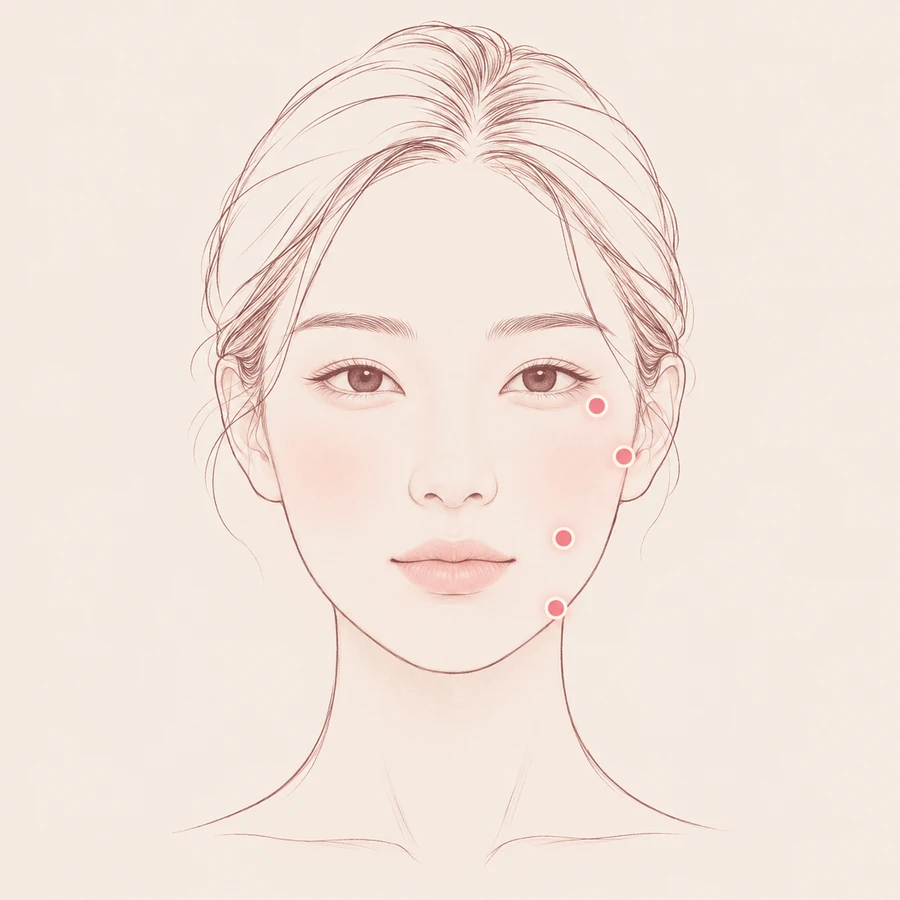
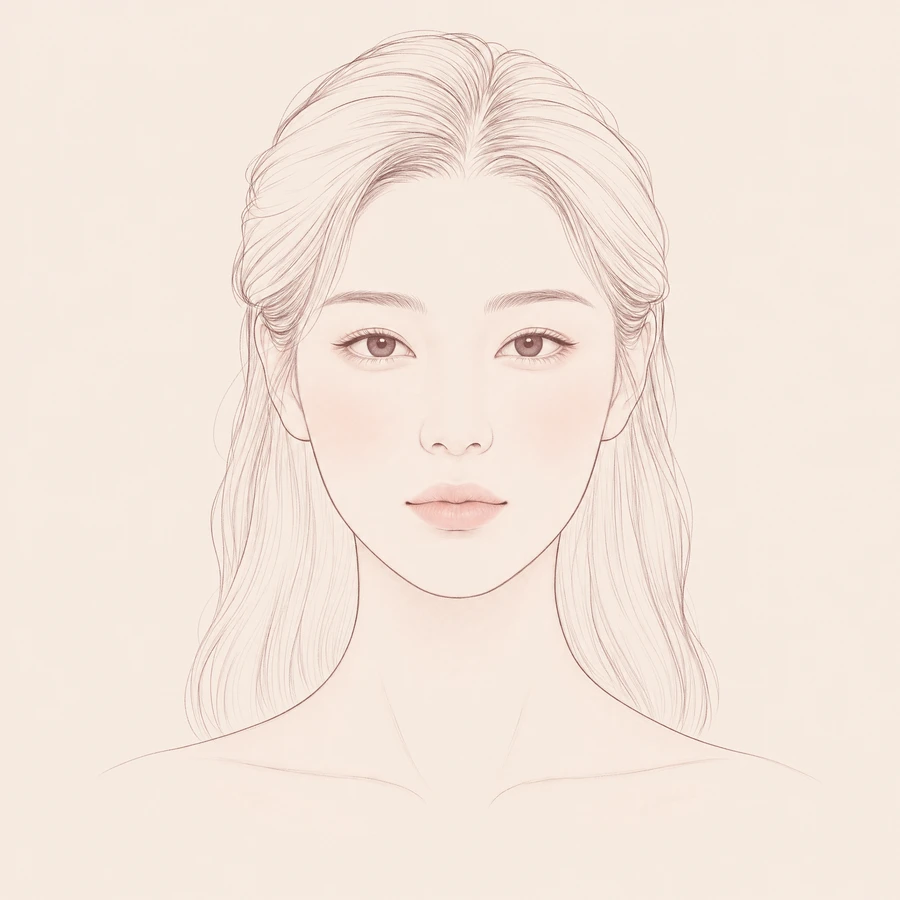
events-2026-12: LIG12 #1 유지인대 부위 7곳·#6 해부 그림

diff --git a/events-2026-12/ligament12/copy-data.js b/events-2026-12/ligament12/copy-data.js
@@ -1,2 +1,2 @@
 /* generated by v4/ligament12/build-ligament12.cjs, do not edit by hand */
-window.PAGE_COPY = {"id":"LIG12","locales":{"KO":{"lg_period":"12.01 – 02.28","lg_vat":"VAT 10% 별도","lg_contact":"예약 및 문의 02-336-7511","lg_hook":"얼굴을 받치는 유지인대 자리에 필러나 스컬트라·래디어스를 넣는 주사 리프팅이에요.","lg_hero_tag":"이벤트가","lg_alt_hero":"블러시 샌드 배경 앞에서 아이보리 오프숄더 니트를 입고 고개를 왼쪽으로 돌린 모델","lg_p_mark":"Price","lg_p3_lead":"패키지는 필러와 스컬트라에 LDM을 더한 구성이에요.","lg_g16_unit":"소프웨이브 숫자는 펄스예요.","lg_dev1_n":"소프웨이브","lg_dev2_n":"LDM","lg_alt_dev_sofwave":"소프웨이브 장비","lg_alt_dev_ldm":"LDM 장비","lg_ba_eyebrow":"Before & After","lg_ba_before":"BEFORE","lg_ba_after":"AFTER","lg_ba_arrow":"›","lg_ba_note":"실제 시술 효과를 참고한 AI 생성 이미지","lg_alt_ba_before":"유지인대 페이스 리프팅 시술 전 (AI 생성 이미지)","lg_alt_ba_after":"유지인대 페이스 리프팅 시술 후 (AI 생성 이미지)","lg_c4_kicker":"What is Ligament Lift","lg_c4_q":"유지인대 리프팅, 어떤 시술이에요?","lg_c4_a":"유지인대는 뼈에서 피부까지 이어지는 단단한 섬유 조직이에요. 이 자리를 짚어 필러나 스컬트라·래디어스를 주사로 넣어요.","lg_c4_m1":"눈둘레","lg_c4_m2":"광대","lg_c4_m3":"교근","lg_c4_m4":"마리오네트","lg_c4_who":"이런 고민에 많이 찾아요","lg_c4_l1_t":"눈둘레 유지인대","lg_c4_l1_d":"눈물고랑 · 다크서클","lg_c4_l2_t":"광대 유지인대","lg_c4_l2_d":"앞볼 꺼짐 · 팔자주름","lg_c4_l3_t":"교근 유지인대","lg_c4_l3_d":"옆볼 · 턱선 라인","lg_c4_l4_t":"마리오네트 인대","lg_c4_l4_d":"입꼬리 · 입가 주름","lg_c4_mat":"넣는 재료","lg_c4_x1_k":"Volume Up","lg_c4_x1_t":"HA 필러","lg_c4_x1_d":"젤 형태의 히알루론산 필러예요. 국산과 수입 중에서 골라요.","lg_c4_x2_k":"Regen","lg_c4_x2_t":"스컬트라 · 래디어스","lg_c4_x2_d":"스컬트라는 PLLA, 래디어스는 CaHA 성분이에요.","lg_c4_x3_k":"Package","lg_c4_x3_t":"필러 + 스컬트라","lg_c4_x3_d":"두 가지를 함께 넣고 LDM을 더해요.","lg_c4_src":"그림은 이해를 돕는 예시예요 · 출처: 뷰티블라썸 홈페이지 시술 안내","lg_alt_c4":"정면 얼굴 선화에 유지인대 네 곳을 분홍 점으로 표시한 그림","lg_c5_kicker":"How it goes","lg_c5_q":"시술 당일은 이렇게 진행돼요","lg_c5_a":"상담에서 넣을 자리와 재료, 양을 정한 뒤 시작해요.","lg_c5_s1_t":"상담·진단","lg_c5_s1_d":"얼굴 구조와 처진 정도를 보고 넣을 자리와 양을 정해요.","lg_c5_s2_t":"마취 준비","lg_c5_s2_d":"재료와 부위에 맞춰 마취를 준비해요.","lg_c5_s3_t":"주사로 넣기","lg_c5_s3_d":"절개 없이, 정한 유지인대 자리에 주사로 넣어요.","lg_c5_s4_t":"LDM·관리 안내","lg_c5_s4_d":"패키지는 LDM까지 받고, 집에서 할 관리를 알려 드려요.","lg_c5_i1_k":"방식","lg_c5_i1_v":"비절개 주사","lg_c5_i1_n":"필러·스컬트라·래디어스","lg_c5_i2_k":"마취","lg_c5_i2_v":"연고·국소 마취","lg_c5_i2_n":"스컬트라·래디어스 기준이에요","lg_c5_i3_k":"일상 복귀","lg_c5_i3_v":"바로 일상으로","lg_c5_i3_n":"멍·붓기가 생길 수 있어요","lg_c5_time":"시술 시간은 재료와 양, 함께 받는 구성에 따라 달라요. 상담 때 알려 드려요.","lg_c5_care1":"시술 부위는 세게 누르거나 문지르지 마세요.","lg_c5_care2":"스컬트라를 넣었다면 5일 동안 하루 5번, 5분씩 마사지해 주세요.","lg_c5_care3":"평소와 다른 증상이 생기면 바로 병원에 알려 주세요.","lg_c5_src":"출처: 뷰티블라썸 홈페이지 시술 안내(유지인대 리프팅·필러·스컬트라·LDM)","lg_alt_c5":"정면을 보며 환하게 웃는 모델 얼굴 클로즈업","lg_ab_kicker":"ABOUT BEAUTY BLOSSOM","lg_ab_title":"당신의 하루를 빛나게, 뷰티블라썸","lg_ab_intro1":"고객 한 분 한 분의 개성을 존중하는 맞춤 진료,","lg_ab_intro2":"모든 과정을 투명하게 안내해 드려요.","lg_ab_dr_name":"이건호 대표원장","lg_ab_dr_quote":"자연스러운 아름다움을 위해 늘 함께하겠습니다.","lg_ab_ph1":"RECEPTION","lg_ab_ph2":"CARE ROOM","lg_ab_ph3":"TREATMENT ROOM","lg_ab_s1_t":"정품·정량","lg_ab_s1_d":"정품 약물과 장비, 정량을 지켜요","lg_ab_s2_t":"개인별 맞춤상담","lg_ab_s2_d":"피부 상태와 원하는 목표를 보고 계획을 세워요","lg_ab_s3_t":"저녁·주말 진료","lg_ab_s3_d":"평일 저녁 8시까지, 점심시간 없이 진료해요","lg_ab_s4_t":"외국어 통역","lg_ab_s4_d":"영어·중국어·일본어·태국어 통역이 상주해요","lg_ab_loc":"LOCATION","lg_ab_loc_title":"찾아오시는 길","lg_ab_way_station":"합정역 3번 출구","lg_ab_way_line":"2·6호선","lg_ab_way_addr":"서울 마포구 양화로 66 메디원메디컬센터 6·8층","lg_ab_way_desk":"6층 접수","lg_ab_hours_kicker":"OPENING HOURS","lg_ab_hours_lbl":"진료시간","lg_ab_h1":"평일 10:00–20:00","lg_ab_h2":"주말·대체공휴일 10:00–16:30","lg_ab_h3":"점심시간 없이 진료해요","lg_ab_bk_kicker":"RESERVATION","lg_ab_bk_title":"예약안내","lg_ab_bk_naver":"네이버 예약","lg_ab_bk_kakao":"카카오톡 '뷰티블라썸의원'","lg_ab_phone":"02-336-7511","lg_ab_qr":"네이버 예약 QR","lg_alt_ph1":"아치형 조명 벽 앞 6층 리셉션 데스크","lg_alt_ph2":"커튼으로 나뉜 관리실 베드","lg_alt_ph3":"시술 체어와 파티션이 있는 6층 시술실","lg_alt_director":"팔짱을 낀 이건호 대표원장","lg_alt_map":"합정역 3번 출구 근처 뷰티블라썸의원 위치를 표시한 지도","lg_alt_qr":"네이버 예약으로 연결되는 QR 코드","lg_note_title":"확인해 주세요","lg_cond1":"표시 금액은 모두 VAT 10% 별도예요.","lg_cond2":"재료와 양, 넣을 자리는 상담에서 정해요. 반응과 회복은 개인에 따라 달라요.","lg_cond3":"시술 후 출혈·멍·붓기 등이 생길 수 있어요.","lg_cond4":"모델 사진과 얼굴 그림은 연출된 이미지예요.","lg_cond5":"전후 사진은 실제 시술 효과를 참고한 AI 생성 이미지예요.","lg_cond6":"","lg_uibeop":"의료법상 최대 49% 할인","lg_r8_badge":"BEST","lg_r9_badge":"HIT","lg_r11_badge":"BEST","lg_r13_badge":"BEST","lg_r15_badge":"HIT","lg_r17_badge":"BEST","lg_p_title":"코어 기둥 리프팅, 페이스 컨투어링","lg_p_en":"Ligament Lift","lg_title_en":"Ligament Lift","lg_g6_tag":"Volume Up","lg_g6_name":"코어 기둥 필러 리프팅","lg_g6_sub":"유지인대 필러 리프트","lg_g6_en":"Ligament Lift","lg_r6_opt":"4CC (국산)","lg_r6_list":"162만원","lg_r6_sale":"89만원","lg_r7_opt":"4CC (수입)","lg_r7_list":"271만원","lg_r7_sale":"149만원","lg_r8_opt":"6CC (국산)","lg_r8_list":"235만원","lg_r8_sale":"129만원","lg_r9_opt":"6CC (수입)","lg_r9_list":"398만원","lg_r9_sale":"219만원","lg_g10_tag":"Regen","lg_g10_name":"코어 기둥 콜라겐 리프팅","lg_g10_en":"Ligament Lift","lg_r10_opt":"스컬트라 or 래디어스 1V","lg_r10_list":"180만원","lg_r10_sale":"99만원","lg_r11_opt":"스컬트라 or 래디어스 2V","lg_r11_list":"325만원","lg_r11_sale":"179만원","lg_g12_tag":"Package","lg_g12_name":"코어 기둥 다중 리프팅 패키지","lg_g12_en":"Ligament Lift","lg_r12_opt":"코어기둥 리프팅 필러 4cc + 스컬트라 1V + LDM","lg_r12_list":"325만원","lg_r12_sale":"179만원","lg_r13_opt":"코어기둥 리프팅 필러 4cc + 스컬트라 1V + LDM","lg_r13_tier":"프리미엄","lg_r13_filler":"필러 : 레스틸렌리프트","lg_r13_list":"435만원","lg_r13_sale":"239만원","lg_r14_opt":"코어기둥 리프팅 필러 6cc + 스컬트라 2V + LDM","lg_r14_list":"522만원","lg_r14_sale":"287만원","lg_r15_opt":"코어기둥 리프팅 필러 6cc + 스컬트라 2V + LDM","lg_r15_tier":"프리미엄","lg_r15_filler":"필러 : 레스틸렌리프트","lg_r15_list":"685만원","lg_r15_sale":"377만원","lg_g16_tag":"The Masterpiece","lg_g16_name":"소프웨이브 x 코어 기둥(유지인대) 하이브리드","lg_g16_en":"Ligament Lift","lg_r17_name":"트리플 딥 리프팅","lg_r17_layers":"피부층 + 유지인대 + 근육","lg_r17_parts":"소프웨이브 200 + 코어기둥 리프팅(필러 4cc + 스컬트라 1V) + 승모근 보톡스 + 목빗근 보톡스 + 네페르티티 리프팅 보톡스 + LDM + LED","lg_r17_list":"725만원","lg_r17_sale":"399만원","lg_title":"유지인대 페이스 리프팅","lg_band_en":"Volume Up · Regen · Package","lg_hero_label":"코어 기둥 필러 리프팅","lg_hero_opt":"4CC (국산)","lg_hero_price":"89만원","lg_ba_title":"유지인대 페이스 리프팅"}},"links":{"booking":"https://m.booking.naver.com/booking/13/bizes/1323382?theme=place&service-target=map-pc&lang=ko&area=plt&map-search=1","kakao":"https://pf.kakao.com/_yrHCn/friend","phone":"tel:02-336-7511"},"channels":{"KO":{"booking":"https://m.booking.naver.com/booking/13/bizes/1323382?theme=place&service-target=map-pc&lang=ko&area=plt&map-search=1","kakao":"https://pf.kakao.com/_yrHCn/friend","phone":"tel:02-336-7511","qr":"assets/naver-booking-qr.png"}},"gmap":{"KO":{"desk":"assets/gmap/gmap-oligio12-desk-KO.webp","tab":"assets/gmap/gmap-oligio12-tab-KO.webp","mob":"assets/gmap/gmap-oligio12-mob-KO.webp"}},"prices":{"tab":"15_ligament","range":["B5:K17"],"rows":[{"row":"15_ligament:6","card":2,"list":"162만원","sale":"89만원"},{"row":"15_ligament:7","card":2,"list":"271만원","sale":"149만원"},{"row":"15_ligament:8","card":2,"list":"235만원","sale":"129만원"},{"row":"15_ligament:9","card":2,"list":"398만원","sale":"219만원"},{"row":"15_ligament:10","card":2,"list":"180만원","sale":"99만원"},{"row":"15_ligament:11","card":2,"list":"325만원","sale":"179만원"},{"row":"15_ligament:12","card":3,"list":"325만원","sale":"179만원"},{"row":"15_ligament:13","card":3,"list":"435만원","sale":"239만원"},{"row":"15_ligament:14","card":3,"list":"522만원","sale":"287만원"},{"row":"15_ligament:15","card":3,"list":"685만원","sale":"377만원"},{"row":"15_ligament:17","card":3,"list":"725만원","sale":"399만원"}]},"cards":7};
+window.PAGE_COPY = {"id":"LIG12","locales":{"KO":{"lg_period":"12.01 – 02.28","lg_vat":"VAT 10% 별도","lg_contact":"예약 및 문의 02-336-7511","lg_hook":"얼굴을 받치는 유지인대 자리에 필러나 스컬트라·래디어스를 넣는 주사 리프팅이에요.","lg_hero_tag":"이벤트가","lg_alt_hero":"블러시 샌드 배경 앞에서 아이보리 오프숄더 니트를 입고 고개를 왼쪽으로 돌린 모델","lg_p_mark":"Price","lg_p3_lead":"패키지는 필러와 스컬트라에 LDM을 더한 구성이에요.","lg_g16_unit":"소프웨이브 숫자는 펄스예요.","lg_dev1_n":"소프웨이브","lg_dev2_n":"LDM","lg_alt_dev_sofwave":"소프웨이브 장비","lg_alt_dev_ldm":"LDM 장비","lg_ba_eyebrow":"Before & After","lg_ba_before":"BEFORE","lg_ba_after":"AFTER","lg_ba_arrow":"›","lg_ba_note":"실제 시술 효과를 참고한 AI 생성 이미지","lg_alt_ba_before":"유지인대 페이스 리프팅 시술 전 (AI 생성 이미지)","lg_alt_ba_after":"유지인대 페이스 리프팅 시술 후 (AI 생성 이미지)","lg_c4_kicker":"What is Ligament Lift","lg_c4_q":"유지인대 리프팅, 어떤 시술이에요?","lg_c4_a":"유지인대는 뼈에서 피부까지 이어지는 단단한 섬유 조직이에요. 이 자리를 짚어 필러나 스컬트라·래디어스를 주사로 넣어요.","lg_c4_m1":"눈둘레","lg_c4_m2":"광대","lg_c4_m3":"눈썹 가장자리","lg_c4_m4":"관자","lg_c4_m5":"인디언밴드","lg_c4_m6":"팔자","lg_c4_m7":"옆볼","lg_c4_who":"이런 고민에 많이 찾아요","lg_c4_l1_t":"눈둘레 유지인대","lg_c4_l1_d":"눈물고랑 · 다크서클","lg_c4_l2_t":"광대 유지인대","lg_c4_l2_d":"앞볼 꺼짐 · 팔자주름","lg_c4_l3_t":"눈썹 가장자리","lg_c4_l3_d":"눈썹 꼬리 · 눈꺼풀 처짐","lg_c4_l4_t":"관자","lg_c4_l4_d":"꺼진 관자 · 옆이마 라인","lg_c4_l5_t":"인디언밴드","lg_c4_l5_d":"볼 사선 그늘 · 중안부 꺼짐","lg_c4_l6_t":"팔자","lg_c4_l6_d":"팔자주름 · 입가 그늘","lg_c4_l7_t":"옆볼","lg_c4_l7_d":"옆볼 꺼짐 · 턱선 라인","lg_c4_mat":"넣는 재료","lg_c4_x1_k":"Volume Up","lg_c4_x1_t":"HA 필러","lg_c4_x1_d":"젤 형태의 히알루론산 필러예요. 국산과 수입 중에서 골라요.","lg_c4_x2_k":"Regen","lg_c4_x2_t":"스컬트라 · 래디어스","lg_c4_x2_d":"스컬트라는 PLLA, 래디어스는 CaHA 성분이에요.","lg_c4_x3_k":"Package","lg_c4_x3_t":"필러 + 스컬트라","lg_c4_x3_d":"두 가지를 함께 넣고 LDM을 더해요.","lg_c4_src":"그림은 이해를 돕는 예시예요 · 출처: 뷰티블라썸 홈페이지 시술 안내","lg_alt_c4":"정면 얼굴 선화 (유지인대 일곱 곳은 점과 이름표로 표시)","lg_c5_kicker":"How it goes","lg_c5_q":"시술 당일은 이렇게 진행돼요","lg_c5_a":"상담에서 넣을 자리와 재료, 양을 정한 뒤 시작해요.","lg_c5_s1_t":"상담·진단","lg_c5_s1_d":"얼굴 구조와 처진 정도를 보고 넣을 자리와 양을 정해요.","lg_c5_s2_t":"마취 준비","lg_c5_s2_d":"재료와 부위에 맞춰 마취를 준비해요.","lg_c5_s3_t":"주사로 넣기","lg_c5_s3_d":"절개 없이, 정한 유지인대 자리에 주사로 넣어요.","lg_c5_s4_t":"LDM·관리 안내","lg_c5_s4_d":"패키지는 LDM까지 받고, 집에서 할 관리를 알려 드려요.","lg_c5_i1_k":"방식","lg_c5_i1_v":"비절개 주사","lg_c5_i1_n":"필러·스컬트라·래디어스","lg_c5_i2_k":"마취","lg_c5_i2_v":"연고·국소 마취","lg_c5_i2_n":"스컬트라·래디어스 기준이에요","lg_c5_i3_k":"일상 복귀","lg_c5_i3_v":"바로 일상으로","lg_c5_i3_n":"멍·붓기가 생길 수 있어요","lg_c5_time":"시술 시간은 재료와 양, 함께 받는 구성에 따라 달라요. 상담 때 알려 드려요.","lg_c5_care1":"시술 부위는 세게 누르거나 문지르지 마세요.","lg_c5_care2":"스컬트라를 넣었다면 5일 동안 하루 5번, 5분씩 마사지해 주세요.","lg_c5_care3":"평소와 다른 증상이 생기면 바로 병원에 알려 주세요.","lg_c5_src":"출처: 뷰티블라썸 홈페이지 시술 안내(유지인대 리프팅·필러·스컬트라·LDM)","lg_alt_c5":"정면을 보며 환하게 웃는 모델 얼굴 클로즈업","lg_ab_kicker":"ABOUT BEAUTY BLOSSOM","lg_ab_title":"당신의 하루를 빛나게, 뷰티블라썸","lg_ab_intro1":"고객 한 분 한 분의 개성을 존중하는 맞춤 진료,","lg_ab_intro2":"모든 과정을 투명하게 안내해 드려요.","lg_ab_dr_name":"이건호 대표원장","lg_ab_dr_quote":"자연스러운 아름다움을 위해 늘 함께하겠습니다.","lg_ab_ph1":"RECEPTION","lg_ab_ph2":"CARE ROOM","lg_ab_ph3":"TREATMENT ROOM","lg_ab_s1_t":"정품·정량","lg_ab_s1_d":"정품 약물과 장비, 정량을 지켜요","lg_ab_s2_t":"개인별 맞춤상담","lg_ab_s2_d":"피부 상태와 원하는 목표를 보고 계획을 세워요","lg_ab_s3_t":"저녁·주말 진료","lg_ab_s3_d":"평일 저녁 8시까지, 점심시간 없이 진료해요","lg_ab_s4_t":"외국어 통역","lg_ab_s4_d":"영어·중국어·일본어·태국어 통역이 상주해요","lg_ab_loc":"LOCATION","lg_ab_loc_title":"찾아오시는 길","lg_ab_way_station":"합정역 3번 출구","lg_ab_way_line":"2·6호선","lg_ab_way_addr":"서울 마포구 양화로 66 메디원메디컬센터 6·8층","lg_ab_way_desk":"6층 접수","lg_ab_hours_kicker":"OPENING HOURS","lg_ab_hours_lbl":"진료시간","lg_ab_h1":"평일 10:00–20:00","lg_ab_h2":"주말·대체공휴일 10:00–16:30","lg_ab_h3":"점심시간 없이 진료해요","lg_ab_bk_kicker":"RESERVATION","lg_ab_bk_title":"예약안내","lg_ab_bk_naver":"네이버 예약","lg_ab_bk_kakao":"카카오톡 '뷰티블라썸의원'","lg_ab_phone":"02-336-7511","lg_ab_qr":"네이버 예약 QR","lg_alt_ph1":"아치형 조명 벽 앞 6층 리셉션 데스크","lg_alt_ph2":"커튼으로 나뉜 관리실 베드","lg_alt_ph3":"시술 체어와 파티션이 있는 6층 시술실","lg_alt_director":"팔짱을 낀 이건호 대표원장","lg_alt_map":"합정역 3번 출구 근처 뷰티블라썸의원 위치를 표시한 지도","lg_alt_qr":"네이버 예약으로 연결되는 QR 코드","lg_note_title":"확인해 주세요","lg_cond1":"표시 금액은 모두 VAT 10% 별도예요.","lg_cond2":"재료와 양, 넣을 자리는 상담에서 정해요. 반응과 회복은 개인에 따라 달라요.","lg_cond3":"시술 후 출혈·멍·붓기 등이 생길 수 있어요.","lg_cond4":"모델 사진과 얼굴 그림은 연출된 이미지예요.","lg_cond5":"전후 사진은 실제 시술 효과를 참고한 AI 생성 이미지예요.","lg_cond6":"","lg_uibeop":"의료법상 최대 49% 할인","lg_r8_badge":"BEST","lg_r9_badge":"HIT","lg_r11_badge":"BEST","lg_r13_badge":"BEST","lg_r15_badge":"HIT","lg_r17_badge":"BEST","lg_p_fig":"유지인대 (retaining ligament)","lg_alt_p_fig":"얼굴 근육 위로 유지인대를 금빛 띠로 그린 3/4 측면 해부 그림","lg_p_title":"코어 기둥 리프팅, 페이스 컨투어링","lg_p_en":"Ligament Lift","lg_title_en":"Ligament Lift","lg_g6_tag":"Volume Up","lg_g6_name":"코어 기둥 필러 리프팅","lg_g6_sub":"유지인대 필러 리프트","lg_g6_en":"Ligament Lift","lg_r6_opt":"4CC (국산)","lg_r6_list":"162만원","lg_r6_sale":"89만원","lg_r7_opt":"4CC (수입)","lg_r7_list":"271만원","lg_r7_sale":"149만원","lg_r8_opt":"6CC (국산)","lg_r8_list":"235만원","lg_r8_sale":"129만원","lg_r9_opt":"6CC (수입)","lg_r9_list":"398만원","lg_r9_sale":"219만원","lg_g10_tag":"Regen","lg_g10_name":"코어 기둥 콜라겐 리프팅","lg_g10_en":"Ligament Lift","lg_r10_opt":"스컬트라 or 래디어스 1V","lg_r10_list":"180만원","lg_r10_sale":"99만원","lg_r11_opt":"스컬트라 or 래디어스 2V","lg_r11_list":"325만원","lg_r11_sale":"179만원","lg_g12_tag":"Package","lg_g12_name":"코어 기둥 다중 리프팅 패키지","lg_g12_en":"Ligament Lift","lg_r12_opt":"코어기둥 리프팅 필러 4cc + 스컬트라 1V + LDM","lg_r12_list":"325만원","lg_r12_sale":"179만원","lg_r13_opt":"코어기둥 리프팅 필러 4cc + 스컬트라 1V + LDM","lg_r13_tier":"프리미엄","lg_r13_filler":"필러 : 레스틸렌리프트","lg_r13_list":"435만원","lg_r13_sale":"239만원","lg_r14_opt":"코어기둥 리프팅 필러 6cc + 스컬트라 2V + LDM","lg_r14_list":"522만원","lg_r14_sale":"287만원","lg_r15_opt":"코어기둥 리프팅 필러 6cc + 스컬트라 2V + LDM","lg_r15_tier":"프리미엄","lg_r15_filler":"필러 : 레스틸렌리프트","lg_r15_list":"685만원","lg_r15_sale":"377만원","lg_g16_tag":"The Masterpiece","lg_g16_name":"소프웨이브 x 코어 기둥(유지인대) 하이브리드","lg_g16_en":"Ligament Lift","lg_r17_name":"트리플 딥 리프팅","lg_r17_layers":"피부층 + 유지인대 + 근육","lg_r17_parts":"소프웨이브 200 + 코어기둥 리프팅(필러 4cc + 스컬트라 1V) + 승모근 보톡스 + 목빗근 보톡스 + 네페르티티 리프팅 보톡스 + LDM + LED","lg_r17_list":"725만원","lg_r17_sale":"399만원","lg_title":"유지인대 페이스 리프팅","lg_band_en":"Volume Up · Regen · Package","lg_hero_label":"코어 기둥 필러 리프팅","lg_hero_opt":"4CC (국산)","lg_hero_price":"89만원","lg_ba_title":"유지인대 페이스 리프팅"}},"links":{"booking":"https://m.booking.naver.com/booking/13/bizes/1323382?theme=place&service-target=map-pc&lang=ko&area=plt&map-search=1","kakao":"https://pf.kakao.com/_yrHCn/friend","phone":"tel:02-336-7511"},"channels":{"KO":{"booking":"https://m.booking.naver.com/booking/13/bizes/1323382?theme=place&service-target=map-pc&lang=ko&area=plt&map-search=1","kakao":"https://pf.kakao.com/_yrHCn/friend","phone":"tel:02-336-7511","qr":"assets/naver-booking-qr.png"}},"gmap":{"KO":{"desk":"assets/gmap/gmap-oligio12-desk-KO.webp","tab":"assets/gmap/gmap-oligio12-tab-KO.webp","mob":"assets/gmap/gmap-oligio12-mob-KO.webp"}},"prices":{"tab":"15_ligament","range":["B5:K17"],"rows":[{"row":"15_ligament:6","card":2,"list":"162만원","sale":"89만원"},{"row":"15_ligament:7","card":2,"list":"271만원","sale":"149만원"},{"row":"15_ligament:8","card":2,"list":"235만원","sale":"129만원"},{"row":"15_ligament:9","card":2,"list":"398만원","sale":"219만원"},{"row":"15_ligament:10","card":2,"list":"180만원","sale":"99만원"},{"row":"15_ligament:11","card":2,"list":"325만원","sale":"179만원"},{"row":"15_ligament:12","card":3,"list":"325만원","sale":"179만원"},{"row":"15_ligament:13","card":3,"list":"435만원","sale":"239만원"},{"row":"15_ligament:14","card":3,"list":"522만원","sale":"287만원"},{"row":"15_ligament:15","card":3,"list":"685만원","sale":"377만원"},{"row":"15_ligament:17","card":3,"list":"725만원","sale":"399만원"}]},"cards":7};

diff --git a/events-2026-12/ligament12/index.html b/events-2026-12/ligament12/index.html
@@ -9,12 +9,12 @@
   <title>유지인대 · BEAUTY BLOSSOM</title>
   <link rel="stylesheet" href="https://cdn.jsdelivr.net/gh/orioncactus/pretendard@v1.3.9/dist/web/variable/pretendardvariable-dynamic-subset.min.css">
   <link rel="stylesheet" href="https://fonts.googleapis.com/css2?family=Cormorant+Garamond:ital,wght@0,400;0,500;0,600;1,300;1,400;1,500&amp;display=swap">
-  <link rel="stylesheet" href="ligament12.css?v=20261109-ligament12a">
-  <script src="copy-data.js?v=20261109-ligament12a" defer></script>
+  <link rel="stylesheet" href="ligament12.css?v=20261110-ligament12a">
+  <script src="copy-data.js?v=20261110-ligament12a" defer></script>
   <script src="../text-format.js?v=20261109-type1" defer></script>
 <script src="../inline-format.js?v=20261109-type1" defer></script>
 <script src="../inline-edit.js?v=20261109-type1" defer></script>
-  <script src="ligament12.js?v=20261109-ligament12a" defer></script>
+  <script src="ligament12.js?v=20261110-ligament12a" defer></script>
 </head>
 <body>
 <!-- LIG12 유지인대 · 겨울 시즌, 2026-11-04 redesign (reference sheet 11/04: F69 design poster, G69 team model, H69 colour pin).
@@ -162,6 +162,7 @@
           <h2 class="p-title" id="lg-t2"><span class="pt-main" data-copy="lg_p_title"></span><span class="pt-en" data-copy="lg_p_en"></span></h2>
         </div>
         <div class="pboard">
+          <figure class="lig-fig"><p class="lig-fig-t" data-copy="lg_p_fig"></p><img class="lig-fig-img" src="assets/ligament-anatomy.webp?v=a" data-alt="lg_alt_p_fig" alt="" width="660" height="1400"></figure>
           <div class="pgroup">
             <p class="pg-head"><span class="pg-tag" data-copy="lg_g6_tag"></span><span class="pg-name" data-copy="lg_g6_name"></span></p>
             <p class="pg-sub"><span data-copy="lg_g6_sub"></span><span class="pg-en" data-copy="lg_g6_en"></span></p>
@@ -200,6 +201,7 @@
           <h2 class="p-title" id="lg-t2-L"><span class="pt-main" data-copy="lg_p_title"></span><span class="pt-en" data-copy="lg_p_en"></span></h2>
         </div>
         <div class="pboard">
+    <figure class="lig-fig"><p class="lig-fig-t" data-copy="lg_p_fig"></p><img class="lig-fig-img" src="assets/ligament-anatomy.webp?v=a" data-alt="lg_alt_p_fig" alt="" width="660" height="1400"></figure>
           <div class="pgroup">
             <p class="pg-head"><span class="pg-tag" data-copy="lg_g6_tag"></span><span class="pg-name" data-copy="lg_g6_name"></span></p>
             <p class="pg-sub"><span data-copy="lg_g6_sub"></span><span class="pg-en" data-copy="lg_g6_en"></span></p>
@@ -273,6 +275,7 @@
       <img class="bg bg-flip" src="assets/bg-studio.jpg?v=1104a" alt="" aria-hidden="true" width="1080" height="1350">
       <div class="cp-in">
         <header class="top"><img class="brand wordmark" src="assets/logo-wordmark-282828.png" alt="BEAUTY BLOSSOM" width="975" height="111"><span class="period" data-copy="lg_period"></span></header>
+    <figure class="lig-fig"><p class="lig-fig-t" data-copy="lg_p_fig"></p><img class="lig-fig-img" src="assets/ligament-anatomy.webp?v=a" data-alt="lg_alt_p_fig" alt="" width="660" height="1400"></figure>
         <div class="head head-mini">
           <p class="p-title"><span class="pt-main" data-copy="lg_p_title"></span><span class="pt-en" data-copy="lg_p_en"></span></p>
         </div>
@@ -748,11 +751,14 @@
         </div>
         <div class="c4-mid">
           <figure class="face">
-            <img class="face-img" src="assets/diagram-face.webp?v=a" data-alt="lg_alt_c4" alt="" width="900" height="900">
-            <span class="mk mk1"><span data-copy="lg_c4_m1"></span></span>
+            <img class="face-img" src="assets/diagram-face.webp?v=b" data-alt="lg_alt_c4" alt="" width="900" height="900">
+            <span class="mk mk1 mk-l"><span data-copy="lg_c4_m1"></span></span>
             <span class="mk mk2"><span data-copy="lg_c4_m2"></span></span>
             <span class="mk mk3"><span data-copy="lg_c4_m3"></span></span>
-            <span class="mk mk4"><span data-copy="lg_c4_m4"></span></span>
+            <span class="mk mk4 mk-l"><span data-copy="lg_c4_m4"></span></span>
+            <span class="mk mk5 mk-l"><span data-copy="lg_c4_m5"></span></span>
+            <span class="mk mk6 mk-l"><span data-copy="lg_c4_m6"></span></span>
+            <span class="mk mk7"><span data-copy="lg_c4_m7"></span></span>
           </figure>
           <div class="lig">
             <p class="lig-lbl" data-copy="lg_c4_who"></p>
@@ -761,6 +767,9 @@
               <li class="lg-it"><span class="lg-n" aria-hidden="true"></span><div class="lg-tx"><h3 class="lg-t" data-copy="lg_c4_l2_t"></h3><p class="lg-d" data-copy="lg_c4_l2_d"></p></div></li>
               <li class="lg-it"><span class="lg-n" aria-hidden="true"></span><div class="lg-tx"><h3 class="lg-t" data-copy="lg_c4_l3_t"></h3><p class="lg-d" data-copy="lg_c4_l3_d"></p></div></li>
               <li class="lg-it"><span class="lg-n" aria-hidden="true"></span><div class="lg-tx"><h3 class="lg-t" data-copy="lg_c4_l4_t"></h3><p class="lg-d" data-copy="lg_c4_l4_d"></p></div></li>
+              <li class="lg-it"><span class="lg-n" aria-hidden="true"></span><div class="lg-tx"><h3 class="lg-t" data-copy="lg_c4_l5_t"></h3><p class="lg-d" data-copy="lg_c4_l5_d"></p></div></li>
+              <li class="lg-it"><span class="lg-n" aria-hidden="true"></span><div class="lg-tx"><h3 class="lg-t" data-copy="lg_c4_l6_t"></h3><p class="lg-d" data-copy="lg_c4_l6_d"></p></div></li>
+              <li class="lg-it"><span class="lg-n" aria-hidden="true"></span><div class="lg-tx"><h3 class="lg-t" data-copy="lg_c4_l7_t"></h3><p class="lg-d" data-copy="lg_c4_l7_d"></p></div></li>
             </ol>
           </div>
         </div>
@@ -792,11 +801,14 @@
         </div>
         <div class="c4-mid">
           <figure class="face">
-            <img class="face-img" src="assets/diagram-face.webp?v=a" data-alt="lg_alt_c4" alt="" width="900" height="900">
-            <span class="mk mk1"><span data-copy="lg_c4_m1"></span></span>
+            <img class="face-img" src="assets/diagram-face.webp?v=b" data-alt="lg_alt_c4" alt="" width="900" height="900">
+            <span class="mk mk1 mk-l"><span data-copy="lg_c4_m1"></span></span>
             <span class="mk mk2"><span data-copy="lg_c4_m2"></span></span>
             <span class="mk mk3"><span data-copy="lg_c4_m3"></span></span>
-            <span class="mk mk4"><span data-copy="lg_c4_m4"></span></span>
+            <span class="mk mk4 mk-l"><span data-copy="lg_c4_m4"></span></span>
+            <span class="mk mk5 mk-l"><span data-copy="lg_c4_m5"></span></span>
+            <span class="mk mk6 mk-l"><span data-copy="lg_c4_m6"></span></span>
+            <span class="mk mk7"><span data-copy="lg_c4_m7"></span></span>
           </figure>
           <div class="lig">
             <p class="lig-lbl" data-copy="lg_c4_who"></p>
@@ -805,6 +817,9 @@
               <li class="lg-it"><span class="lg-n" aria-hidden="true"></span><div class="lg-tx"><h3 class="lg-t" data-copy="lg_c4_l2_t"></h3><p class="lg-d" data-copy="lg_c4_l2_d"></p></div></li>
               <li class="lg-it"><span class="lg-n" aria-hidden="true"></span><div class="lg-tx"><h3 class="lg-t" data-copy="lg_c4_l3_t"></h3><p class="lg-d" data-copy="lg_c4_l3_d"></p></div></li>
               <li class="lg-it"><span class="lg-n" aria-hidden="true"></span><div class="lg-tx"><h3 class="lg-t" data-copy="lg_c4_l4_t"></h3><p class="lg-d" data-copy="lg_c4_l4_d"></p></div></li>
+    <li class="lg-it"><span class="lg-n" aria-hidden="true"></span><div class="lg-tx"><h3 class="lg-t" data-copy="lg_c4_l5_t"></h3><p class="lg-d" data-copy="lg_c4_l5_d"></p></div></li>
+    <li class="lg-it"><span class="lg-n" aria-hidden="true"></span><div class="lg-tx"><h3 class="lg-t" data-copy="lg_c4_l6_t"></h3><p class="lg-d" data-copy="lg_c4_l6_d"></p></div></li>
+    <li class="lg-it"><span class="lg-n" aria-hidden="true"></span><div class="lg-tx"><h3 class="lg-t" data-copy="lg_c4_l7_t"></h3><p class="lg-d" data-copy="lg_c4_l7_d"></p></div></li>
             </ol>
           </div>
         </div>
@@ -868,24 +883,41 @@
         <header class="top solo"><img class="brand wordmark" src="assets/logo-wordmark-282828.png" alt="BEAUTY BLOSSOM" width="975" height="111"></header>
         <div class="c4-mid">
           <figure class="face">
-            <img class="face-img" src="assets/diagram-face.webp?v=a" data-alt="lg_alt_c4" alt="" width="900" height="900">
-            <span class="mk mk1"><span data-copy="lg_c4_m1"></span></span>
+            <img class="face-img" src="assets/diagram-face.webp?v=b" data-alt="lg_alt_c4" alt="" width="900" height="900">
+            <span class="mk mk1 mk-l"><span data-copy="lg_c4_m1"></span></span>
             <span class="mk mk2"><span data-copy="lg_c4_m2"></span></span>
             <span class="mk mk3"><span data-copy="lg_c4_m3"></span></span>
-            <span class="mk mk4"><span data-copy="lg_c4_m4"></span></span>
+            <span class="mk mk4 mk-l"><span data-copy="lg_c4_m4"></span></span>
+            <span class="mk mk5 mk-l"><span data-copy="lg_c4_m5"></span></span>
+            <span class="mk mk6 mk-l"><span data-copy="lg_c4_m6"></span></span>
+            <span class="mk mk7"><span data-copy="lg_c4_m7"></span></span>
           </figure>
-          <div class="lig">
-            <p class="lig-lbl" data-copy="lg_c4_who"></p>
-            <ol class="lig-list">
-              <li class="lg-it"><span class="lg-n" aria-hidden="true"></span><div class="lg-tx"><h3 class="lg-t" data-copy="lg_c4_l1_t"></h3><p class="lg-d" data-copy="lg_c4_l1_d"></p></div></li>
-              <li class="lg-it"><span class="lg-n" aria-hidden="true"></span><div class="lg-tx"><h3 class="lg-t" data-copy="lg_c4_l2_t"></h3><p class="lg-d" data-copy="lg_c4_l2_d"></p></div></li>
-              <li class="lg-it"><span class="lg-n" aria-hidden="true"></span><div class="lg-tx"><h3 class="lg-t" data-copy="lg_c4_l3_t"></h3><p class="lg-d" data-copy="lg_c4_l3_d"></p></div></li>
-              <li class="lg-it"><span class="lg-n" aria-hidden="true"></span><div class="lg-tx"><h3 class="lg-t" data-copy="lg_c4_l4_t"></h3><p class="lg-d" data-copy="lg_c4_l4_d"></p></div></li>
-            </ol>
-          </div>
         </div>
       </div>
       <div class="band">
+        <p class="band-en" data-copy="lg_band_en"></p>
+        <i class="band-rule" aria-hidden="true"></i>
+        <p class="band-sm src" data-copy="lg_c4_src"></p>
+      </div>
+    </section>
+    <section class="card cx c4 K5 K5c" data-card="5" data-part="3" data-size-only="kakao">
+    <img class="bg" src="assets/bg-studio.jpg?v=1104a" alt="" aria-hidden="true" width="1080" height="1350">
+    <div class="cx-body">
+    <header class="top solo"><img class="brand wordmark" src="assets/logo-wordmark-282828.png" alt="BEAUTY BLOSSOM" width="975" height="111"></header>
+    <div class="lig">
+    <p class="lig-lbl" data-copy="lg_c4_who"></p>
+    <ol class="lig-list">
+    <li class="lg-it"><span class="lg-n" aria-hidden="true"></span><div class="lg-tx"><h3 class="lg-t" data-copy="lg_c4_l1_t"></h3><p class="lg-d" data-copy="lg_c4_l1_d"></p></div></li>
+    <li class="lg-it"><span class="lg-n" aria-hidden="true"></span><div class="lg-tx"><h3 class="lg-t" data-copy="lg_c4_l2_t"></h3><p class="lg-d" data-copy="lg_c4_l2_d"></p></div></li>
+    <li class="lg-it"><span class="lg-n" aria-hidden="true"></span><div class="lg-tx"><h3 class="lg-t" data-copy="lg_c4_l3_t"></h3><p class="lg-d" data-copy="lg_c4_l3_d"></p></div></li>
+    <li class="lg-it"><span class="lg-n" aria-hidden="true"></span><div class="lg-tx"><h3 class="lg-t" data-copy="lg_c4_l4_t"></h3><p class="lg-d" data-copy="lg_c4_l4_d"></p></div></li>
+    <li class="lg-it"><span class="lg-n" aria-hidden="true"></span><div class="lg-tx"><h3 class="lg-t" data-copy="lg_c4_l5_t"></h3><p class="lg-d" data-copy="lg_c4_l5_d"></p></div></li>
+    <li class="lg-it"><span class="lg-n" aria-hidden="true"></span><div class="lg-tx"><h3 class="lg-t" data-copy="lg_c4_l6_t"></h3><p class="lg-d" data-copy="lg_c4_l6_d"></p></div></li>
+    <li class="lg-it"><span class="lg-n" aria-hidden="true"></span><div class="lg-tx"><h3 class="lg-t" data-copy="lg_c4_l7_t"></h3><p class="lg-d" data-copy="lg_c4_l7_d"></p></div></li>
+    </ol>
+    </div>
+    </div>
+    <div class="band">
         <p class="band-en" data-copy="lg_band_en"></p>
         <i class="band-rule" aria-hidden="true"></i>
         <p class="band-sm src" data-copy="lg_c4_src"></p>

diff --git a/events-2026-12/ligament12/ligament12.css b/events-2026-12/ligament12/ligament12.css
@@ -174,10 +174,22 @@ img{max-width:100%}
 .mk{position:absolute;z-index:2;display:inline-flex;align-items:center;gap:.35em;transform:translateY(-50%);padding:.16em .62em .16em .2em;border-radius:999px;background:rgba(251,247,233,.94);
   border:1px solid rgba(138,15,32,.35);font-weight:700;font-size:max(11px,calc(15*var(--px)));line-height:1.2;color:var(--rose-d);white-space:nowrap}
 .mk::before{counter-increment:mk;content:counter(mk);display:inline-grid;place-items:center;width:1.45em;height:1.45em;border-radius:50%;background:var(--rose-d);color:var(--cream-l);font-size:.86em}
-.mk1{left:68.6%;top:45.07%}
-.mk2{left:71.6%;top:50.68%}
-.mk3{left:64.9%;top:59.77%}
-.mk4{left:64.1%;top:67.53%}
+/* 2026-11-10 team comment #1: the lead's face drawing has no dots; each of the seven points is a screen dot (.mk::after) at the spot on the face
+   (left / top = the point, % of the 900 px drawing) with its name tag beside it: on the right of the face the tag reads rightwards, on the left
+   (.mk-l) leftwards, '눈썹 가장자리' (.mk-t) sits above its dot so the long tag stays inside the frame in every size */
+.face .mk{transform:translate(calc(12*var(--px) + 4px),-50%)}
+.face .mk.mk-l{transform:translate(calc(-100% - 12*var(--px) - 4px),-50%)}
+.face .mk.mk-t{transform:translate(-50%,calc(-100% - 10*var(--px) - 4px))}
+.face .mk::after{content:'';position:absolute;top:50%;left:calc(-12*var(--px) - 4px);width:max(8px,calc(12*var(--px)));height:max(8px,calc(12*var(--px)));transform:translate(-50%,-50%);border-radius:50%;background:var(--pink);box-shadow:0 0 0 max(2px,calc(3*var(--px))) rgba(251,247,233,.95),0 1px 3px rgba(138,15,32,.35)}
+.face .mk.mk-l::after{left:auto;right:calc(-12*var(--px) - 4px);transform:translate(50%,-50%)}
+.face .mk.mk-t::after{top:auto;bottom:calc(-10*var(--px) - 4px);left:50%;transform:translate(-50%,50%)}
+.mk1{left:41.3%;top:41.5%}
+.mk2{left:64.6%;top:44.4%}
+.mk3{left:65.2%;top:34.2%}
+.mk4{left:33.6%;top:31.3%}
+.mk5{left:43.5%;top:47.6%}
+.mk6{left:46%;top:54%}
+.mk7{left:64.2%;top:53.6%}
 .lig{min-width:0}
 .lig-lbl{font-family:var(--f-serif);font-style:italic;font-weight:600;font-size:max(14px,calc(26*var(--px)));color:var(--rose-d)}
 .lig-list{list-style:none;padding:0;margin-top:calc(6*var(--px));counter-reset:lg}
@@ -186,6 +198,17 @@ img{max-width:100%}
 .lg-n::before{counter-increment:lg;content:counter(lg);display:grid;place-items:center;width:calc(34*var(--px));height:calc(34*var(--px));min-width:20px;min-height:20px;border-radius:50%;border:1px solid var(--rose-d);
   font-family:var(--f-serif);font-variant-numeric:lining-nums;font-weight:600;font-size:max(12px,calc(20*var(--px)));color:var(--rose-d)}
 .lg-t{font-weight:700;font-size:max(14px,calc(24*var(--px)));line-height:1.3;color:var(--ink)}
+/* seven items now (#1): the same type sizes, less air between them */
+.c4 .lg-it{padding-top:calc(7*var(--px));padding-bottom:calc(7*var(--px))}
+/* 2026-11-10 team comment #6: the lead's retaining-ligament drawing stands on the left of the 2 A price board (240 px x the board's height at 1080),
+   the price rows move right with narrower price columns (the amounts keep their size, option names stay on one line); the picture keeps its own
+   ratio inside the frame (the drawing's cream ground = the frame's cream, so the frame reads as one panel) */
+.pboard:has(> .lig-fig){padding-left:calc(300*var(--px))}
+.pboard:has(> .lig-fig) .prow{grid-template-columns:minmax(0,1fr) calc(96*var(--px)) calc(140*var(--px))}
+.lig-fig{position:absolute;left:calc(32*var(--px));top:calc(16*var(--px));bottom:calc(14*var(--px));width:calc(240*var(--px));margin:0;display:flex;flex-direction:column;border-radius:calc(12*var(--px));overflow:hidden;background:#fdf9ea;border:1px solid rgba(138,15,32,.22)}
+.lig-fig-t{flex:none;padding:.42em .5em .38em;text-align:center;font-weight:800;font-size:max(12px,calc(19*var(--px)));line-height:1.25;letter-spacing:-.01em;color:var(--cream-l);background:var(--rose-d)}
+.lig-fig-img{display:block;flex:1 1 auto;min-height:0;width:100%;height:auto;object-fit:contain;object-position:50% 50%}
+@container (max-width:600px){.pboard:has(> .lig-fig){padding-left:12px}.lig-fig{position:static;width:150px;margin:4px auto 10px}}
 .lg-d{margin-top:calc(4*var(--px));font-size:max(12px,calc(19*var(--px)));font-weight:500;line-height:1.45;color:var(--ink-2)}
 .mat{margin-top:calc(16*var(--px))}
 .mat-title{font-family:var(--f-serif);font-style:italic;font-weight:600;font-size:max(14px,calc(26*var(--px)));color:var(--rose-d)}
@@ -660,16 +683,36 @@ html[data-size="kakao"] .K2a1 .dk2{left:470px;top:120px}
 html[data-size="kakao"] .pkg .pn > .badge{display:inline-flex;width:auto;margin:0 0 0 12px}
 html[data-size="kakao"] .K3a .pboard{margin-top:8px}
 html[data-size="kakao"] .K3a .pgroup{padding:6px 0 4px}
+
+/* 2026-11-10 team comment #1: seven points and seven list items. line 5-1: the list in two columns (1-4 | 5-7) next to the face;
+   kakao: 5-2 is the face with its seven points, the list moves to its own part 5-3 (two columns), same type sizes as home */
+html[data-size="line"] .L5a .lig-list{display:grid;grid-template-columns:repeat(2,minmax(0,1fr));grid-template-rows:repeat(4,auto);grid-auto-flow:column;column-gap:28px;margin-top:4px}
+html[data-size="line"] .L5a .lg-it:nth-child(4){border-bottom:0}
+html[data-size="kakao"] .K5b .c4-mid{grid-template-columns:1fr;justify-items:center}
+html[data-size="kakao"] .K5c .lig{margin-top:14px}
+html[data-size="kakao"] .K5c .lig-list{display:grid;grid-template-columns:repeat(2,minmax(0,1fr));grid-template-rows:repeat(4,auto);grid-auto-flow:column;column-gap:40px}
+html[data-size="kakao"] .K5c .lg-it:nth-child(4){border-bottom:0}
+/* 2026-11-10 team comment #6: the anatomy drawing left of the price rows - line 2 A part 1 (190 px), kakao 2 A part 2 (the part with the most height:
+   the drawing runs from below the small title to the band, the two rows move right) */
+html[data-size="line"] .L2a1 .pboard{padding-left:250px}
+html[data-size="line"] .L2a1 .pboard .prow{grid-template-columns:minmax(0,1fr) 150px 190px}
+html[data-size="line"] .L2a1 .lig-fig{left:32px;top:16px;bottom:12px;width:190px}
+html[data-size="kakao"] .K2a2 .lig-fig{left:40px;top:172px;bottom:12px;width:180px}
+html[data-size="kakao"] .K2a2 .pboard{margin-left:200px}
+html[data-size="kakao"] .K2a2 .pboard .prow{grid-template-columns:minmax(0,1fr) 80px 135px}
 /* ==== tc-fix: text snaps to whole pixels, so a few chips need their text or box moved at their size-card position (generated from
    v4/ligament12/sizes/tcfix.json by the text-centre fixer; same box size) ==== */
-html[data-size="line"] main.lg section[data-size-only][data-card="2"][data-variant="b"]:not([data-part]) span.pg-tag[data-copy="lg_g6_tag"]{padding-top:3.86px}
+html[data-size="line"] main.lg section[data-size-only][data-card="2"][data-variant="b"]:not([data-part]) span.pg-tag[data-copy="lg_g6_tag"]{padding-top:3.86px;padding-bottom:-0.78px}
 html[data-size="line"] main.lg section[data-size-only][data-card="2"][data-variant="b"]:not([data-part]) span.badge[data-copy="lg_r8_badge"]{padding-top:5.80px;padding-bottom:4.20px}
 html[data-size="line"] main.lg section[data-size-only][data-card="2"][data-variant="b"]:not([data-part]) span.badge[data-copy="lg_r9_badge"]{padding-top:5.80px;padding-bottom:3.20px}
 html[data-size="line"] main.lg section[data-size-only][data-card="3"]:not([data-variant])[data-part="1"] span.pg-tag[data-copy="lg_g12_tag"]{padding-top:2.86px;padding-bottom:1.22px;line-height:24.30px;margin-top:1px}
 html[data-size="kakao"] main.lg section[data-size-only][data-card="2"]:not([data-variant])[data-part="2"] span.badge[data-copy="lg_r9_badge"]{padding-top:5.80px;padding-bottom:4.20px}
-html[data-size="kakao"] main.lg section[data-size-only][data-card="2"][data-variant="b"][data-part="1"] span.pg-tag[data-copy="lg_g6_tag"]{padding-top:3.86px}
+html[data-size="kakao"] main.lg section[data-size-only][data-card="2"][data-variant="b"][data-part="1"] span.pg-tag[data-copy="lg_g6_tag"]{padding-top:3.86px;padding-bottom:-0.78px}
 html[data-size="kakao"] main.lg section[data-size-only][data-card="3"]:not([data-variant])[data-part="1"] span.pg-tag[data-copy="lg_g12_tag"]{padding-top:2.86px;padding-bottom:0.22px;line-height:26.30px;margin-bottom:1px}
 html[data-size="kakao"] main.lg section[data-size-only][data-card="3"]:not([data-variant])[data-part="3"] span.pg-tag[data-copy="lg_g16_tag"]{padding-top:3.86px;padding-bottom:0.22px;line-height:24.30px;margin-top:1px}
 html[data-size="kakao"] main.lg section[data-size-only][data-card="3"]:not([data-variant])[data-part="3"] span.badge[data-copy="lg_r17_badge"]{padding-top:5.80px;padding-bottom:4.20px;line-height:15.50px;margin-top:1px}
+html[data-size="kakao"] main.lg section[data-size-only][data-card="5"]:not([data-variant])[data-part="2"] span.mk.mk1{padding-top:2.40px;padding-bottom:1.40px}
+html[data-size="kakao"] main.lg section[data-size-only][data-card="5"]:not([data-variant])[data-part="2"] span.mk.mk2{padding-top:3.40px;padding-bottom:2.40px}
+html[data-size="kakao"] main.lg section[data-size-only][data-card="5"]:not([data-variant])[data-part="2"] span.mk.mk6{padding-top:3.40px;padding-bottom:2.40px}
 /* ==== /tc-fix ==== */
 /* ===== /SZ:css ===== */
